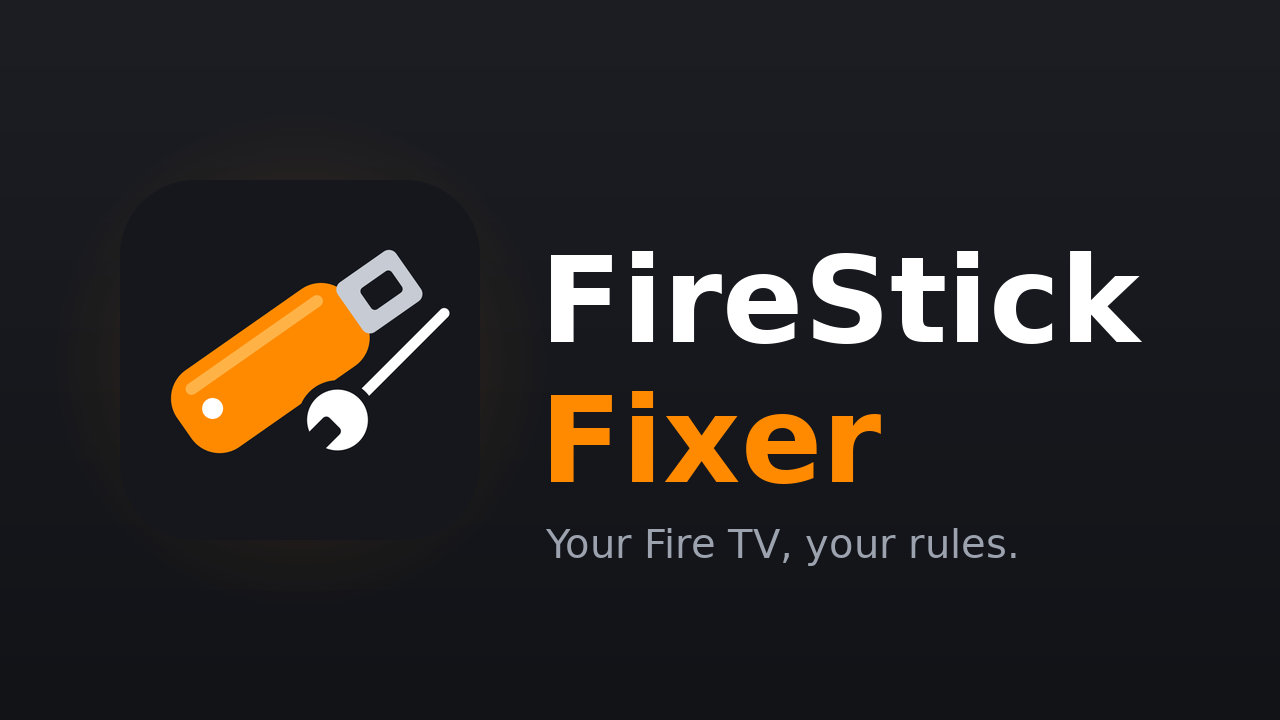
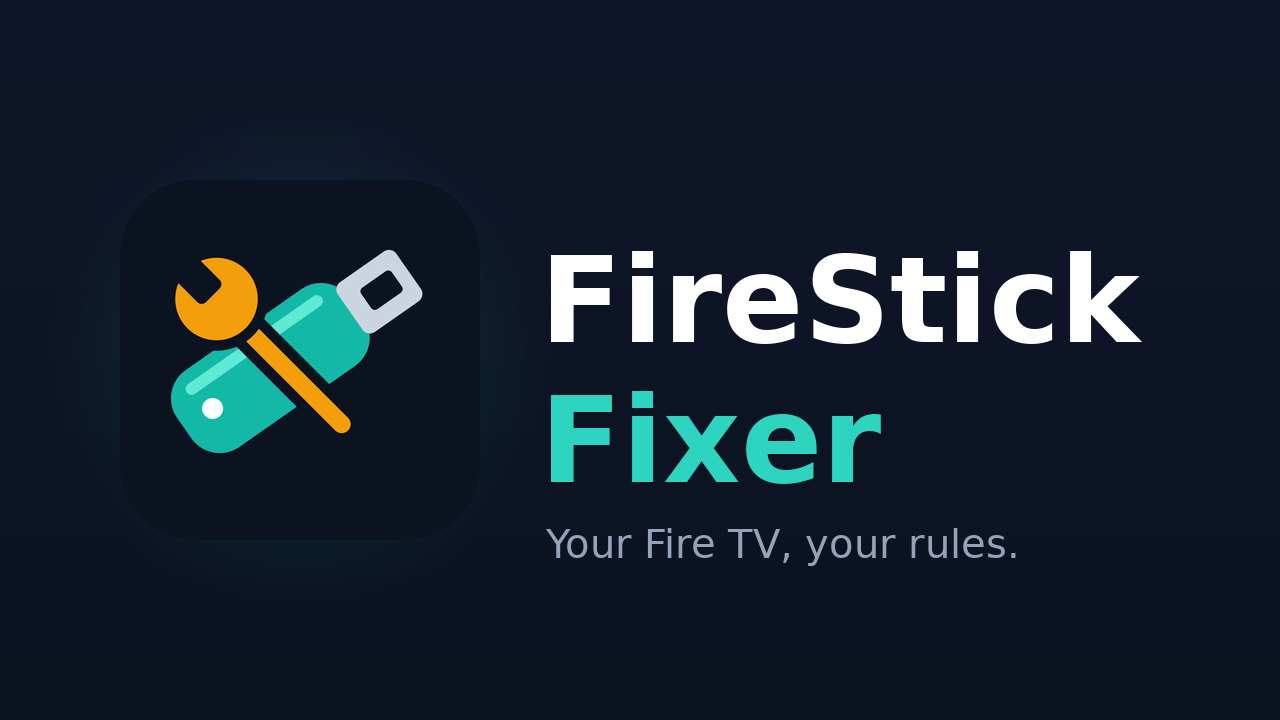
Back to navy + teal; teal Fire TV Stick crossed by a larger wrench
Owner preferred the teal theme over Fire orange; the stick is now teal and
the wrench crosses it at a readable size. Icons, banners, loading mark,
screenshot and D22 updated. Full device test: 17/17.

Changed region(s): [[0.125, 0.3361, 0.375, 0.6417], [0.4062, 0.55, 0.6875, 0.6722]]

diff --git a/src/io/github/hatim/firestickfixer/HijackService.java b/src/io/github/hatim/firestickfixer/HijackService.java
@@ -1258,7 +1258,7 @@ public class HijackService extends AccessibilityService {
         android.widget.LinearLayout col = new android.widget.LinearLayout(this);
         col.setOrientation(android.widget.LinearLayout.VERTICAL);
         col.setGravity(Gravity.CENTER);
-        col.setBackgroundColor(0xF2111317);
+        col.setBackgroundColor(0xF20B1220);
         android.widget.ImageView icon = new android.widget.ImageView(this);
         try {
             icon.setImageDrawable(getPackageManager().getApplicationIcon(app));
@@ -1274,7 +1274,7 @@ public class HijackService extends AccessibilityService {
         col.addView(title);
         voicePanelQuery = new android.widget.TextView(this);
         voicePanelQuery.setText(R.string.voice_panel_listening);
-        voicePanelQuery.setTextColor(0xFFFF8A00);
+        voicePanelQuery.setTextColor(0xFF2DD4BF);
         voicePanelQuery.setTextSize(30);
         voicePanelQuery.setGravity(Gravity.CENTER);
         col.addView(voicePanelQuery);
@@ -1282,7 +1282,7 @@ public class HijackService extends AccessibilityService {
                 android.R.attr.progressBarStyleHorizontal);
         voicePanelBar.setMax(1000);
         voicePanelBar.setProgress(0);
-        voicePanelBar.setProgressTintList(android.content.res.ColorStateList.valueOf(0xFFFF8A00));
+        voicePanelBar.setProgressTintList(android.content.res.ColorStateList.valueOf(0xFF2DD4BF));
         android.widget.LinearLayout.LayoutParams barLp = new android.widget.LinearLayout.LayoutParams(
                 (int) (420 * d), (int) (8 * d));
         barLp.topMargin = (int) (28 * d);
@@ -1290,7 +1290,7 @@ public class HijackService extends AccessibilityService {
         android.widget.TextView hint = new android.widget.TextView(this);
         hint.setText(R.string.voice_panel_hint);
         voicePanelHint = hint;
-        hint.setTextColor(0xFF9CA3AF);
+        hint.setTextColor(0xFF94A3B8);
         hint.setTextSize(18);
         hint.setGravity(Gravity.CENTER);
         hint.setPadding(0, (int) (24 * d), 0, 0);

diff --git a/src/io/github/hatim/firestickfixer/Colors.java b/src/io/github/hatim/firestickfixer/Colors.java
@@ -11,27 +11,27 @@ public final class Colors {
 
     private Colors() {}
 
-    /** Mirrors {@code @color/brand}. FireStick Fixer Fire orange. */
-    public static final int BRAND = 0xFFFF8A00;
+    /** Mirrors {@code @color/brand}. FireStick Fixer teal. */
+    public static final int BRAND = 0xFF2DD4BF;
 
     /** Mirrors {@code @color/text_white}. */
     public static final int WHITE = 0xFFFFFFFF;
 
     /** Mirrors {@code @color/text_neutral}. Light gray for labels. */
-    public static final int NEUTRAL = 0xFFE5E7EB;
+    public static final int NEUTRAL = 0xFFCBD5E1;
 
     /** Mirrors {@code @color/surface_tip_box}. The pinned tip strip. */
-    public static final int TIP_BG = 0xFF17191E;
+    public static final int TIP_BG = 0xFF0F172A;
 
     /** Mirrors {@code @color/bg_bar}. Title bar. */
-    public static final int BAR = 0xFF17191E;
+    public static final int BAR = 0xFF0F172A;
 
     /** Mirrors {@code @color/text_dim}. Section headings, secondary text. */
-    public static final int DIM = 0xFF9CA3AF;
+    public static final int DIM = 0xFF94A3B8;
 
     /** Mirrors {@code @color/ok_green}. "All good" states. */
     public static final int OK = 0xFF4ADE80;
 
     /** Mirrors {@code @color/amber}. Attention states. */
-    public static final int AMBER = 0xFFFBBF24;
+    public static final int AMBER = 0xFFF59E0B;
 }

diff --git a/src/io/github/hatim/firestickfixer/InfoDialog.java b/src/io/github/hatim/firestickfixer/InfoDialog.java
@@ -49,7 +49,7 @@ public final class InfoDialog {
         // up from the OK button (OK, then device-info link, then repo link,
         // then the logo) lands here; activating it plays the loading animation
         // full-screen. No visible hint, so it stays a discovery, not a feature.
-        // Focus is shown by tinting the white logo brand orange (no background
+        // Focus is shown by tinting the white logo brand teal (no background
         // frame), reusing the same focus selector as the header buttons.
         ImageView dialogLogo = new ImageView(host);
         dialogLogo.setImageResource(R.drawable.ic_logo);

diff --git a/src/io/github/hatim/firestickfixer/MainActivity.java b/src/io/github/hatim/firestickfixer/MainActivity.java
@@ -2438,7 +2438,7 @@ public class MainActivity extends Activity {
      * Round button on the right of the verbose row that opens the
      * full-screen diagnostic log. A "description" vector icon tinted via
      * the same color selector as the header info button and the target
-     * launch button (white normally, dark on the orange focus disc), so it stays
+     * launch button (white normally, dark on the teal focus disc), so it stays
      * crisp and consistent at any density.
      */
     private ImageView buildLogButton() {

diff --git a/docs/DECISIONS.md b/docs/DECISIONS.md
@@ -151,7 +151,7 @@ made. Dates are 2026. Test device throughout: Fire TV Stick AFTMA08C15, Fire OS 
   Never ftv-smtv.ntp-fireos.com (clock).
 
 ### D21 — Look and logo (Oct 17–18)
-- (Superseded by D22.) Midnight navy + teal, cards per section, one-line description under every setting.
+- Midnight navy + teal (kept, see D22), cards per section, one-line description under every setting.
 - Logo: a home outline with an amber arrow leaving it — "Home, redirected", the app's core
   promise. Banner tagline: "Home goes where you want."
 
@@ -160,8 +160,11 @@ made. Dates are 2026. Test device throughout: Fire TV Stick AFTMA08C15, Fire OS 
 - **Decision:** an original drawing of the Fire TV Stick itself (orange HDMI dongle with
   its plug) with a wrench on it. Copying Amazon's logo or wordmark, even modified, would
   suggest Amazon made or endorses the app (trademark) and risks takedowns of the repo.
-- **UI follows the logo:** graphite background, Fire orange accent, green for "all good",
-  yellow for "needs attention"; tagline "Your Fire TV, your rules."
+- **Revised the same day (owner's feedback):** the orange theme was replaced again by
+  the earlier navy + teal, which reads calmer on a TV and doesn't look like an Amazon
+  product. The stick is drawn in teal, and the wrench was enlarged and turned to cross
+  the stick (it was too small to read at icon size); the HDMI plug stays visible.
+  Amber for "attention", green for "all good"; tagline "Your Fire TV, your rules."
 
 ### D23 — Test every feature, even switched-off ones (Oct 18, owner's rule)
 - **Decision:** `tools/device-test.sh` records the six feature switches, turns all on,

diff --git a/CLAUDE.md b/CLAUDE.md
@@ -2,7 +2,7 @@
 
 Fork of Home on Fire for Fire OS 8 (package `io.github.hatim.firestickfixer`). Read these first:
 - `docs/ARCHITECTURE.md` — how every feature works and which signals it uses.
-- `docs/DECISIONS.md` — every decision with its evidence (D1–D21). Add an entry for each new one.
+- `docs/DECISIONS.md` — every decision with its evidence (D1–D23). Add an entry for each new one.
 - `docs/TESTING.md` — `tools/device-test.sh` (automated, over adb) and the manual checklist.
 
 Build: `./build.sh` (needs ~/Android/Sdk and the key in ~/.android-signing/). Install: `adb install -r firestick-fixer.apk`.
